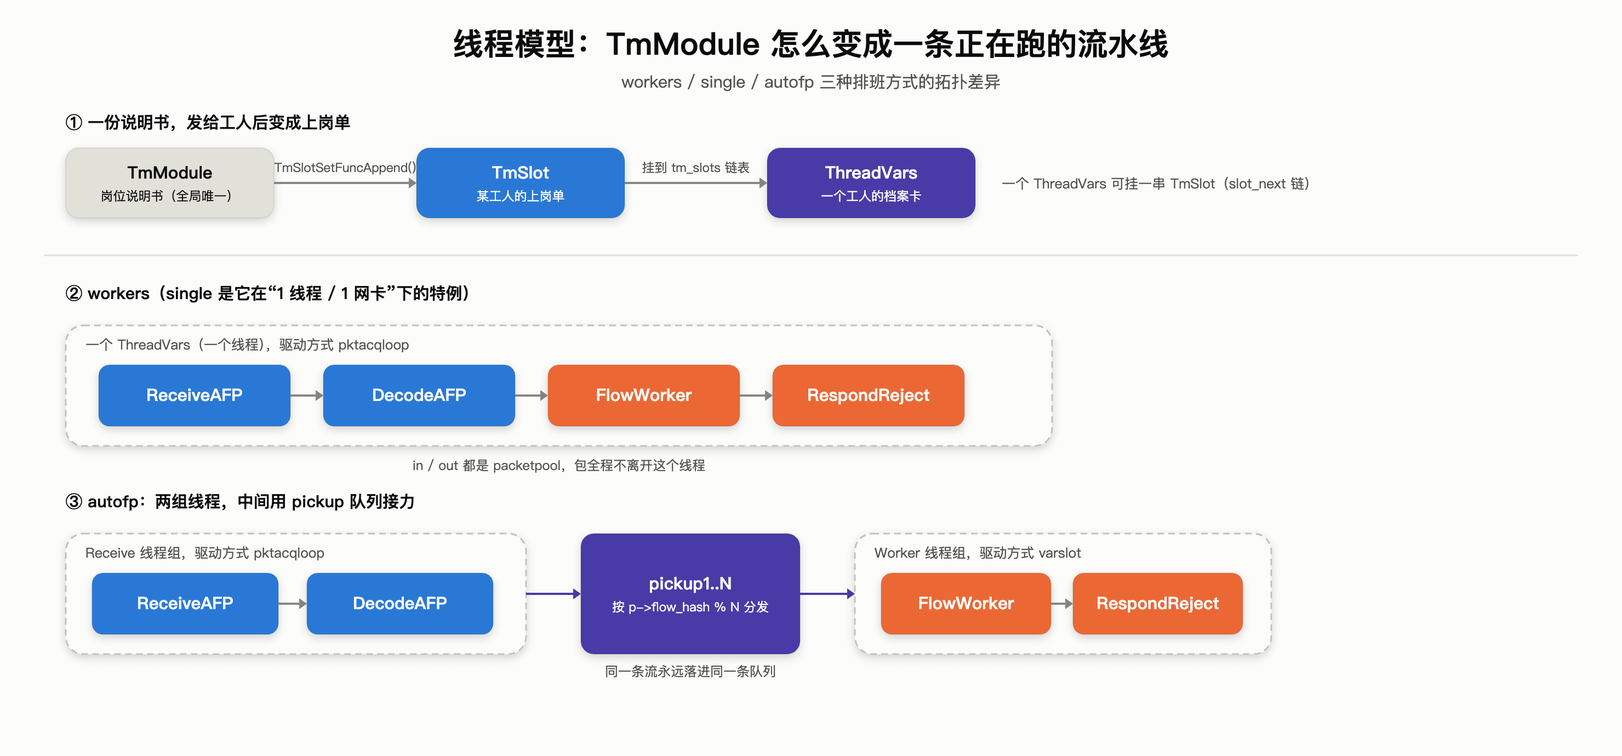
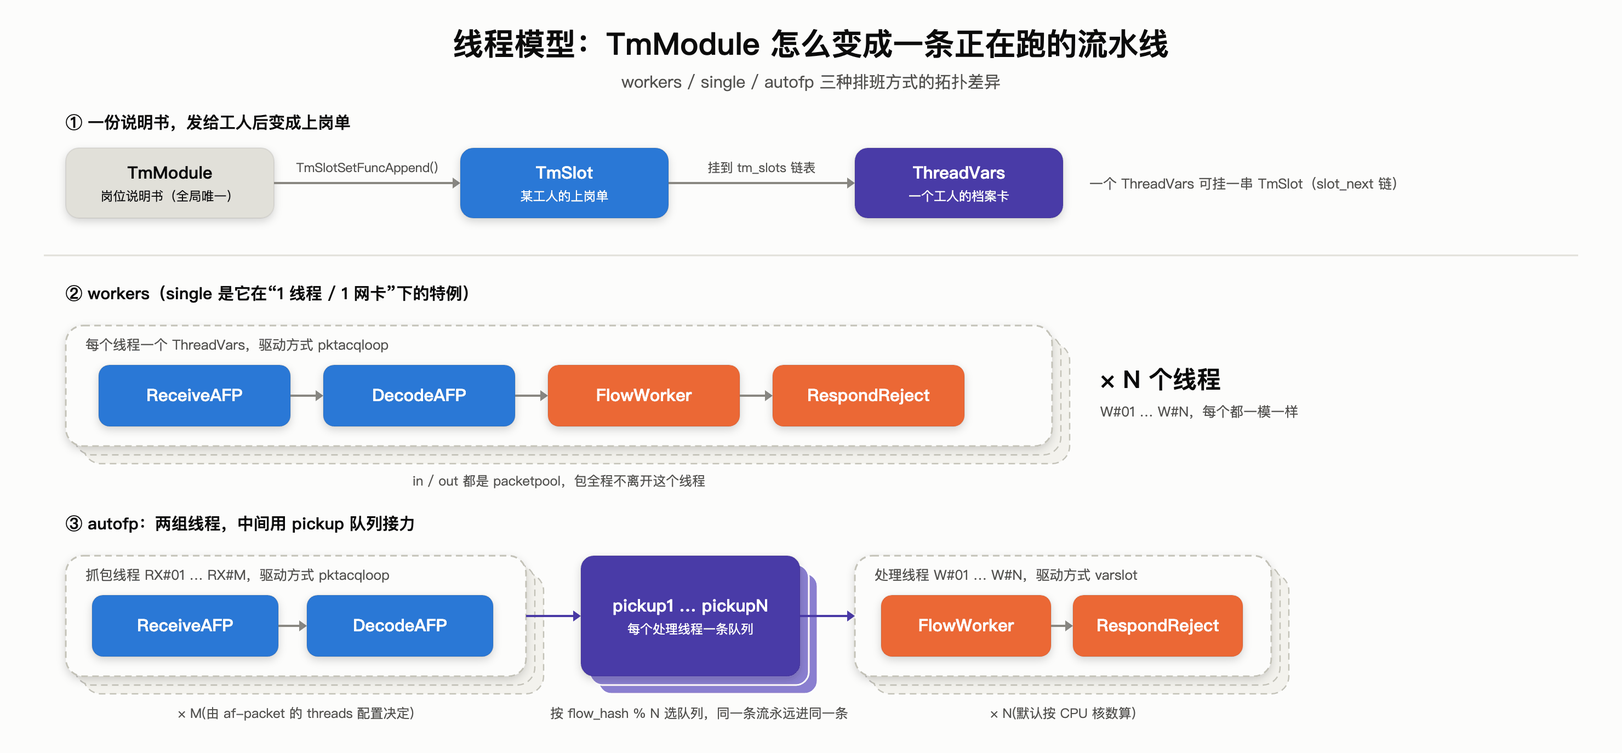
docs: rewrite part 2 against 8.0.7 thread internals and clarify thread-model diagram

diff --git a/docs/source-reading/scripts/gen_threadmodel.py b/docs/source-reading/scripts/gen_threadmodel.py
@@ -2,7 +2,7 @@
 import os
 OUT_DIR = os.path.join(os.path.dirname(os.path.abspath(__file__)), '..', 'images')
 
-W, H = 1480, 690
+W = 1480
 
 BLUE = "#2a78d6"       # receive/decode side
 BLUE_D = "#184f95"
@@ -14,9 +14,9 @@ INK = "#0b0b0b"
 SUB = "#52514e"
 
 parts = []
-parts.append(f'<svg xmlns="http://www.w3.org/2000/svg" viewBox="0 0 {W} {H}" font-family="-apple-system, \'Segoe UI\', \'PingFang SC\', \'Microsoft YaHei\', sans-serif">')
+parts.append(None)  # svg 头，等算出 H 再填
 parts.append('<filter id="softshadow" x="-30%" y="-30%" width="160%" height="160%"><feDropShadow dx="0" dy="3" stdDeviation="4" flood-color="#0b0b0b" flood-opacity="0.16"/></filter>')
-parts.append(f'<rect x="0" y="0" width="{W}" height="{H}" fill="#fcfcfb"/>')
+parts.append(None)  # 背景，等算出 H 再填
 
 parts.append(f'<text x="{W/2}" y="50" text-anchor="middle" font-size="28" font-weight="700" fill="{INK}">线程模型：TmModule 怎么变成一条正在跑的流水线</text>')
 parts.append(f'<text x="{W/2}" y="80" text-anchor="middle" font-size="15" fill="{SUB}">workers / single / autofp 三种排班方式的拓扑差异</text>')
@@ -30,6 +30,13 @@ def box(x, y, w, h, fill, title, sub, tcolor=INK, radius=12, stroke=None, dashed
         s += f'<text x="{x+w/2}" y="{y+h/2+16}" text-anchor="middle" font-size="11.5" fill="{tcolor}">{sub}</text>'
     else:
         s += f'<text x="{x+w/2}" y="{y+h/2+5}" text-anchor="middle" font-size="15.5" font-weight="700" fill="{tcolor}">{title}</text>'
+    return s
+
+def stack(x, y, w, h, n=2, d=8, radius=16):
+    """在框后面画几层错位的虚线框，表示"同样的东西有好几份"。"""
+    s = ''
+    for i in range(n, 0, -1):
+        s += f'<rect x="{x+d*i}" y="{y+d*i}" width="{w}" height="{h}" rx="{radius}" fill="#f3f2ed" stroke="#c3c2b7" stroke-width="1.2" stroke-dasharray="6,4"/>'
     return s
 
 def label(x, y, text, size=13, color=SUB, anchor="start", weight="400"):
@@ -52,11 +59,11 @@ row_y = ay + 20
 bw, bh = 190, 64
 x1 = 60
 parts.append(box(x1, row_y, bw, bh, GRAY, "TmModule", "岗位说明书（全局唯一）", INK))
-x2 = x1 + bw + 130
+x2 = x1 + bw + 170
 parts.append(harrow(x1+bw, row_y+bh/2, x2))
 parts.append(label((x1+bw+x2)/2, row_y+bh/2-10, "TmSlotSetFuncAppend()", 11.5, SUB, "middle"))
 parts.append(box(x2, row_y, bw, bh, BLUE, "TmSlot", "某工人的上岗单", "#ffffff"))
-x3 = x2 + bw + 130
+x3 = x2 + bw + 170
 parts.append(harrow(x2+bw, row_y+bh/2, x3))
 parts.append(label((x2+bw+x3)/2, row_y+bh/2-10, "挂到 tm_slots 链表", 11.5, SUB, "middle"))
 parts.append(box(x3, row_y, bw, bh, VIOLET, "ThreadVars", "一个工人的档案卡", "#ffffff"))
@@ -72,8 +79,11 @@ parts.append(label(60, by, "② workers（single 是它在“1 线程 / 1 网卡
 lane_y = by + 24
 thread_w, thread_h = 900, 110
 tx = 60
+parts.append(stack(tx, lane_y, thread_w, thread_h))
 parts.append(box(tx, lane_y, thread_w, thread_h, "#fcfcfb", "", "", stroke="#c3c2b7", dashed=True, radius=16))
-parts.append(label(tx+18, lane_y+22, "一个 ThreadVars（一个线程），驱动方式 pktacqloop", 12.5, SUB))
+parts.append(label(tx+18, lane_y+22, "每个线程一个 ThreadVars，驱动方式 pktacqloop", 12.5, SUB))
+parts.append(label(tx+thread_w+44, lane_y+thread_h/2+2, "× N 个线程", 22, INK, weight="700"))
+parts.append(label(tx+thread_w+44, lane_y+thread_h/2+28, "W#01 … W#N，每个都一模一样", 12.5, SUB))
 
 slot_w, slot_h = 175, 56
 slot_y = lane_y + 36
@@ -85,17 +95,19 @@ for i, (name, color) in enumerate(slots):
         parts.append(harrow(sx+slot_w, slot_y+slot_h/2, sx+slot_w+30))
     sx += slot_w + 30
 
-parts.append(label(tx+thread_w/2, lane_y+thread_h+22, "in / out 都是 packetpool，包全程不离开这个线程", 12, SUB, "middle"))
+parts.append(label(tx+thread_w/2, lane_y+thread_h+36, "in / out 都是 packetpool，包全程不离开这个线程", 12, SUB, "middle"))
 
 # ---- Section C: autofp lane ----
-cy = lane_y + thread_h + 56
+cy = lane_y + thread_h + 76
 parts.append(label(60, cy, "③ autofp：两组线程，中间用 pickup 队列接力", 15, INK, weight="700"))
 
 lane2_y = cy + 24
 group_w, group_h = 420, 110
 gx1 = 60
+parts.append(stack(gx1, lane2_y, group_w, group_h))
 parts.append(box(gx1, lane2_y, group_w, group_h, "#fcfcfb", "", "", stroke="#c3c2b7", dashed=True, radius=16))
-parts.append(label(gx1+18, lane2_y+22, "Receive 线程组，驱动方式 pktacqloop", 12.5, SUB))
+parts.append(label(gx1+18, lane2_y+22, "抓包线程 RX#01 … RX#M，驱动方式 pktacqloop", 12.5, SUB))
+parts.append(label(gx1+group_w/2, lane2_y+group_h+38, "× M(由 af-packet 的 threads 配置决定)", 12, SUB, "middle"))
 s2y = lane2_y + 36
 s2x = gx1 + 24
 for i, (name, color) in enumerate([("ReceiveAFP", BLUE), ("DecodeAFP", BLUE)]):
@@ -108,14 +120,18 @@ for i, (name, color) in enumerate([("ReceiveAFP", BLUE), ("DecodeAFP", BLUE)]):
 qx = gx1 + group_w + 50
 qw, qh = 200, 110
 parts.append(harrow(gx1+group_w, lane2_y+group_h/2, qx, VIOLET))
-parts.append(box(qx, lane2_y, qw, qh, VIOLET, "pickup1..N", "按 p->flow_hash % N 分发", "#ffffff"))
-parts.append(label(qx+qw/2, lane2_y+qh+20, "同一条流永远落进同一条队列", 12, SUB, "middle"))
+for i in (2, 1):
+    parts.append(f'<rect x="{qx+8*i}" y="{lane2_y+8*i}" width="{qw}" height="{qh}" rx="12" fill="#8a7fd0" stroke="#ffffff" stroke-width="1.5"/>')
+parts.append(box(qx, lane2_y, qw, qh, VIOLET, "pickup1 … pickupN", "每个处理线程一条队列", "#ffffff"))
+parts.append(label(qx+qw/2+8, lane2_y+qh+38, "按 flow_hash % N 选队列，同一条流永远进同一条", 12, SUB, "middle"))
 
 # second group
 gx2 = qx + qw + 50
 parts.append(harrow(qx+qw, lane2_y+group_h/2, gx2, VIOLET))
+parts.append(stack(gx2, lane2_y, group_w-40, group_h))
 parts.append(box(gx2, lane2_y, group_w-40, group_h, "#fcfcfb", "", "", stroke="#c3c2b7", dashed=True, radius=16))
-parts.append(label(gx2+18, lane2_y+22, "Worker 线程组，驱动方式 varslot", 12.5, SUB))
+parts.append(label(gx2+18, lane2_y+22, "处理线程 W#01 … W#N，驱动方式 varslot", 12.5, SUB))
+parts.append(label(gx2+(group_w-40)/2, lane2_y+group_h+38, "× N(默认按 CPU 核数算)", 12, SUB, "middle"))
 s3y = lane2_y + 36
 s3x = gx2 + 24
 for i, (name, color) in enumerate([("FlowWorker", ORANGE), ("RespondReject", ORANGE)]):
@@ -124,6 +140,9 @@ for i, (name, color) in enumerate([("FlowWorker", ORANGE), ("RespondReject", ORA
         parts.append(harrow(s3x+155, s3y+slot_h/2, s3x+155+20))
     s3x += 155 + 20
 
+H = lane2_y + group_h + 70
+parts[0] = f'<svg xmlns="http://www.w3.org/2000/svg" viewBox="0 0 {W} {H}" font-family="-apple-system, \'Segoe UI\', \'PingFang SC\', \'Microsoft YaHei\', sans-serif">'
+parts[2] = f'<rect x="0" y="0" width="{W}" height="{H}" fill="#fcfcfb"/>'
 parts.append('</svg>')
 
 with open(os.path.join(OUT_DIR, 'suricata-thread-model.svg'), 'w', encoding='utf-8') as f:

diff --git a/docs/source-reading/02-线程模型与TmModule.md b/docs/source-reading/02-线程模型与TmModule.md
@@ -1,19 +1,16 @@
 # Suricata 源码阅读(二)：一条流水线是怎么跑起来的——线程模型与 TmModule
 
-> 这是系列第 2 篇。上一篇跟着 `main()` 把 Suricata 送到了 `RunModeDispatch()` 门口——知道这一刻车间会正式开工，但没细看工位是怎么焊到工人身上的。这一篇就停在这个点往下拆：`TmModule` 怎么变成一个线程真正在跑的东西？一个包在同一个线程里怎么连续闯过好几道工位？single、autofp、workers 这三种排班方式，差别到底落在哪一行代码上？
+> 这是系列第 2 篇。上一篇跟着 `main()` 走完了启动的五个阶段：`RunModeDispatch()` 把线程一个个创建出来，`SuricataPostInit()` 等它们就位后统一放行。但线程里面具体装了什么、放行之后怎么干活，上一篇没有展开。这一篇就拆开一个线程看：`TmModule` 怎么变成线程里真正在跑的代码？一个包在同一个线程里怎么连续闯过好几道工位？single、autofp、workers 这三种排班方式，差别到底落在哪一行代码上？
 
-## 1. 两个新角色：工人档案和上岗单
+先看全貌。下面这张图把本篇要讲的东西都画在了一起，读完再回来看会更清楚：
 
-上一篇留了两个概念没拆开：`TmModule` 是工位的抽象，`RunMode` 决定工位怎么分给工人。真正把两者接起来跑起来的，还差两个没登场的角色：
+![线程模型：TmModule 怎么变成一条正在跑的流水线](images/suricata-thread-model.svg)
 
-- **`ThreadVars`**(`src/threadvars.h:59`)：一个工人的档案卡。线程名字、CPU 亲和性、运行标志位、正在干哪些工位……全记在这上面。它在整个线程存活期间只有一份，是 `pthread_create()` 真正传进去的那个东西。
-- **`TmSlot`**(`src/tm-threads.h:53`)：工位说明书发到某个工人手上后生成的"上岗单"。`TmModule` 本身是全局唯一的一份说明书(存在 `tmm_modules[TMM_SIZE]` 数组里)，但同一份说明书可以抄发给好几个工人;`TmSlot` 就是抄给某一个工人的那一份，带着这个工人自己的运行数据(`slot_data`)。
+## 1. 三个角色：说明书、上岗单、档案卡
 
-关系可以这样理清：**TmModule 是岗位说明书，ThreadVars 是工人档案，TmSlot 是说明书发给某个工人之后生成的上岗单**。一个 `ThreadVars` 可以攥着一串 `TmSlot`(靠 `slot_next` 链起来)，这就是"一个线程连续干好几道工位"的由来。
+要把一组函数变成一条会跑的流水线，Suricata 用了三个结构体。
 
-## 2. TmModule：说明书上写的两种干活方式
-
-回到 `TmModule` 的定义(`src/tm-modules.h:47`)，挑关键字段看：
+**`TmModule`：岗位说明书。** 定义在 `src/tm-modules.h:47`，挑关键字段看：
 
 ```c
 typedef struct TmModule_ {
@@ -21,48 +18,109 @@ typedef struct TmModule_ {
     TmEcode (*ThreadInit)(ThreadVars *, const void *, void **);
     TmEcode (*Func)(ThreadVars *, Packet *, void *);
     TmEcode (*PktAcqLoop)(ThreadVars *, void *, void *);
+    TmEcode (*Management)(ThreadVars *, void *);
     TmEcode (*ThreadDeinit)(ThreadVars *, void *);
     ...
 } TmModule;
 ```
 
-`Func` 和 `PktAcqLoop` 是两种性质不同的"干活方式"：
+`ThreadInit`/`ThreadDeinit` 负责上岗和下岗，中间三个函数指针是三种不同的干活方式，一个模块通常只实现其中一种：
 
-- 多数工位是"来一个包处理一个包"的 `Func`，比如 `Decode`、`StreamTcp`、`Detect`——包递过来才干活，干完就把控制权交回去。
-- 只有站在流水线最前端、负责从网卡或 pcap 里"生产"包的工位(比如 `ReceiveAFP`)才用 `PktAcqLoop`——它自己就是一个不停抓包的循环，不是被动等包递过来，而是主动去外面"造"包。
+- **`Func`：来一个包处理一个包。** 包递过来才干活，干完就把控制权交回去。`DecodeAFP`、`FlowWorker`、`RespondReject` 都是这一类。
+- **`PktAcqLoop`：自己去抓包。** 只有站在流水线最前端的工位才用，比如 `ReceiveAFP`。它本身就是一个不停抓包的循环，不等别人递包，而是主动去网卡或 pcap 文件里"生产"包。
+- **`Management`：不碰包的后台活。** `FlowManager`、`FlowRecycler` 这类管理线程用的就是它。
 
-这个区分不是细节，它决定了挂着这个工位的线程要用哪种方式驱动起来，第 5 节会看到具体分支。
+所有模块在启动时由 `RegisterAllModules()` 注册进一个全局数组 `tmm_modules[TMM_SIZE]`，每个模块全局只有一份。
 
-## 3. 上岗：说明书怎么发给工人，还串成一条线
+**`TmSlot`：上岗单。** 定义在 `src/tm-threads.h:53`。同一份说明书可以发给好几个工人，比如 8 个 worker 线程都要干 `FlowWorker` 这道工位。`TmSlot` 就是发给某一个工人的那一份：它记下这道工位的函数指针，还带着这个工人自己的运行数据(`slot_data`，由 `ThreadInit` 初始化)。多个 `TmSlot` 用 `slot_next` 串成链表。
 
-工位说明书是死的，得有人把它发给具体的工人，还要把好几个工位串成一条线。这活是 `TmSlotSetFuncAppend()`(`src/tm-threads.c:658`)干的：
+**`ThreadVars`：工人档案卡。** 定义在 `src/threadvars.h:59`，一个线程一份，是 `pthread_create()` 真正传进去的那个参数。上面记着线程名字、CPU 亲和性、运行标志位，还有三样决定这个线程怎么干活的东西：
+
+- `tm_slots`：这个工人身上串着的那条上岗单链表。
+- `tm_func`：线程的主函数，也就是"驱动方式"。
+- `tmqh_in` / `tmqh_out`：从哪里取包、处理完把包交到哪里。
+
+一句话理清三者的关系：**TmModule 是岗位说明书，TmSlot 是发到某个工人手上的上岗单，ThreadVars 是工人档案卡，一个工人身上可以串一串上岗单**。
+
+## 2. 组装：把上岗单串到工人身上
+
+把说明书发给工人、再串成一条线，靠的是 `TmSlotSetFuncAppend()`(`src/tm-threads.c:658`)：
 
 ```c
 void TmSlotSetFuncAppend(ThreadVars *tv, TmModule *tm, const void *data)
 {
     TmSlot *slot = SCCalloc(1, sizeof(TmSlot));
     ...
+    slot->SlotThreadInit = tm->ThreadInit;
+    slot->slot_initdata = data;
     if (tm->Func) {
         slot->SlotFunc = tm->Func;
     } else if (tm->PktAcqLoop) {
         slot->PktAcqLoop = tm->PktAcqLoop;
+    } else if (tm->Management) {
+        slot->Management = tm->Management;
     }
     ...
     if (tv->tm_slots == NULL) {
         tv->tm_slots = slot;
     } else {
-        // 找到链表末尾,把新 slot 接上去
+        // 找到链表末尾，把新 slot 接上去
         ...
         b->slot_next = slot;
     }
 }
 ```
 
-逻辑很直白：每调用一次，就把一个 `TmModule` 拷贝成一份 `TmSlot`，挂到这个 `ThreadVars` 的 `tm_slots` 链表尾部。谁调用它、调用几次、传哪些 `TmModule`，就决定了这个线程身上串了哪几道工位、按什么顺序串。第 5 节看 RunMode 代码时会看到，"workers"模式其实就是对着一个新建的 `ThreadVars` 连续调用四次 `TmSlotSetFuncAppend`(`ReceiveAFP`、`DecodeAFP`、`FlowWorker`、`RespondReject`)。
+每调用一次，就新建一个 `TmSlot`，把 `TmModule` 里的函数指针抄过来，挂到这个 `ThreadVars` 的 `tm_slots` 链表尾部。谁调用它、调用几次、传哪些模块，就决定了这个线程身上串了哪几道工位、按什么顺序串。
 
-## 4. 一个包，在一个线程里怎么连续闯过好几道工位
+## 3. 一个线程的一生
 
-`tm_slots` 链表建好之后，包是怎么顺着它走的？答案在 `TmThreadsSlotVarRun()`(`src/tm-threads.c:133`)：
+工位串好了，线程还要有人驱动。一个处理包的线程，是由 `TmThreadCreatePacketHandler()`(`src/tm-threads.c:1062`)创建的，它的参数值得细看：
+
+```c
+ThreadVars *TmThreadCreatePacketHandler(const char *name,
+        const char *inq_name, const char *inqh_name,    // 从哪条队列取包，用什么方式取
+        const char *outq_name, const char *outqh_name,  // 包交到哪条队列，用什么方式交
+        const char *slots);                             // 驱动方式
+```
+
+后面会看到，**三种排班方式的差别，几乎全部体现在这五个字符串参数上**。
+
+最后一个参数 `slots` 决定线程的主函数。`TmThreadSetSlots()`(`src/tm-threads.c:612`)按名字挑选：
+
+| `slots` | 线程主函数 `tm_func` | 用在哪 |
+|---|---|---|
+| `"pktacqloop"` | `TmThreadsSlotPktAcqLoop()` | 链头是抓包模块的线程 |
+| `"varslot"` | `TmThreadsSlotVar()` | 从队列里取包的线程 |
+| `"management"` | `TmThreadsManagement()` | 管理线程 |
+
+`TmThreadSpawn()`(`src/tm-threads.c:1718`)最终调用 `pthread_create(&tv->t, &attr, tv->tm_func, (void *)tv)`(第 1739 行)，线程就从 `tm_func` 开始跑。处理包的两种主函数(`pktacqloop` 和 `varslot`)，一上来做的事都差不多：
+
+1. 挨个调用链上每个 `TmSlot` 的 `SlotThreadInit`，初始化各工位的线程私有数据。
+2. 打上 `THV_INIT_DONE` 标志，告诉主线程"我准备好了"。
+3. 调用 `TmThreadsWaitForUnpause()` 原地等待，直到主线程清掉 `THV_PAUSE`。这就是上一篇"放行"阶段在线程这一侧的样子。
+4. 进入主循环，开始干活。
+
+## 4. 一个包怎么连续闯过好几道工位
+
+两种处理包的主函数，主循环不一样。
+
+**`"pktacqloop"`：线程自己去抓包。** `TmThreadsSlotPktAcqLoop()`(`src/tm-threads.c:310`)的主循环很简单，就是调用链头那个 `TmSlot` 的 `PktAcqLoop`，比如 `ReceiveAFPLoop()`。抓包循环在自己手里，所以抓包模块会把"链上剩下的部分"记下来：`ReceiveAFP` 初始化时保存了 `ptv->slot = s->slot_next`(`src/source-af-packet.c:1313`)。每抓到一个包，就调用 `TmThreadsSlotProcessPkt()`(`src/tm-threads.h:195`)把包交给后面的工位：
+
+```c
+static inline TmEcode TmThreadsSlotProcessPkt(ThreadVars *tv, TmSlot *s, Packet *p)
+{
+    ...
+    TmEcode r = TmThreadsSlotVarRun(tv, p, s);   // 依次走完剩下的工位
+    ...
+    tv->tmqh_out(tv, p);                          // 处理完，把包交出去
+    ...
+}
+```
+
+**`"varslot"`：线程从队列里取包。** `TmThreadsSlotVar()`(`src/tm-threads.c:410`)的主循环是：`tv->tmqh_in(tv)` 从输入队列取一个包，调用 `TmThreadsSlotVarRun()` 走完整条链，再 `tv->tmqh_out(tv, p)` 交出去。
+
+两条路最后都汇到 `TmThreadsSlotVarRun()`(`src/tm-threads.c:133`)：
 
 ```c
 TmEcode TmThreadsSlotVarRun(ThreadVars *tv, Packet *p, TmSlot *slot)
@@ -73,45 +131,91 @@ TmEcode TmThreadsSlotVarRun(ThreadVars *tv, Packet *p, TmSlot *slot)
             ...
             return TM_ECODE_FAILED;
         }
+        ...
     }
     return TM_ECODE_OK;
 }
 ```
 
-就是一个 `for` 循环，顺着 `slot_next` 挨个调用 `SlotFunc`。没有排队，没有跨线程切换——同一个包，在同一个线程的调用栈上，被同一条函数链依次处理完。这是理解 workers 模式为什么快的关键：只要一个线程包揽了从解码到检测的全部工位，包就不需要在线程之间搬来搬去，也就没有队列锁、没有唤醒开销。
+就是一个 `for` 循环，顺着 `slot_next` 挨个调用 `SlotFunc`。没有排队，也没有线程切换：同一个包，在同一个线程的调用栈上，被一条函数链依次处理完。(省略的部分里还有一个细节：解码时如果拆出了隧道里的内层包，会在这里把它们也送进后面的工位。这是第 4 篇的话题。)
 
-## 5. 三种排班方式，差别到底在哪一行
+至于包"交出去"交到了哪里，取决于 `tmqh_out`，也就是创建线程时指定的队列处理器(`Tmqh`，定义见 `src/tm-queuehandlers.h:36`)：
 
-`00` 篇里说过，同样一条"捕获→解码→检测→输出"的逻辑链，可以让一个工人从头干到尾(workers)，也可以分两组工人接力(autofp)。落到源码里，两者的差别都很具体，集中在 `src/util-runmodes.c`：
+- `"packetpool"`：包处理完了，还回本线程的包池，等着下次复用。
+- `"flow"`：按流的哈希值挑一条队列，把包塞进去，交给另一个线程接着处理。
 
-**workers**：`RunModeSetLiveCaptureWorkersForDevice()`(`util-runmodes.c:245`)给*每一个*线程建一个 `ThreadVars`，连续调用四次 `TmSlotSetFuncAppend`：`ReceiveAFP → DecodeAFP → FlowWorker → RespondReject`，输入输出队列都是 `"packetpool"`——没有真正的队列，包从抓包到出结果全程待在同一个线程里，驱动方式是 `"pktacqloop"`(即 `TmThreadsSlotPktAcqLoop`, `tm-threads.c:310`)：线程自己在 `while` 里反复调用链头 `ReceiveAFP` 的 `PktAcqLoop`，抓到一个包就顺着 `slot_next` 交给后面的工位处理完。
+## 5. 三种排班方式，差别在哪一行
 
-**autofp**：`RunModeSetLiveCaptureAutoFp()`(`util-runmodes.c:85`)造了*两组*线程。第一组只干 `Receive + Decode` 两道工位，干完往几条叫 `pickup1`、`pickup2`……的队列(`Tmq`，定义见 `src/tm-queues.c`)里扔;第二组线程专职 `FlowWorker + RespondReject`，各自守着一条 `pickup` 队列，驱动方式是 `"varslot"`(即 `TmThreadsSlotVar`, `tm-threads.c:410`)：线程在 `while` 里反复调用 `tv->tmqh_in(tv)` 从自己的队列里取包，取到了才走 `slot_next` 链。两组线程之间靠队列传包，这就是上一篇说的"传送带"。
+有了上面这些，三种排班方式就可以直接对着 `TmThreadCreatePacketHandler()` 的参数看了。代码都在 `src/util-runmodes.c`。
 
-至于"single"模式，翻开 `RunModeSetLiveCaptureSingle()`(`util-runmodes.c:359`)会发现一个不算意外的真相：它调用的还是 `RunModeSetLiveCaptureWorkersForDevice()`，只是把线程数强行钉死成 1、并且只允许配一个网卡。**single 不是第三种拓扑，它就是 workers 模式在"只准一个工人、只准一个入口"限制下的特例**。
+**workers。** `RunModeSetLiveCaptureWorkersForDevice()`(`util-runmodes.c:245`)按配置的线程数循环，每一轮创建一个线程：
+
+```c
+ThreadVars *tv = TmThreadCreatePacketHandler(tname,
+        "packetpool", "packetpool",
+        "packetpool", "packetpool",
+        "pktacqloop");
+```
+
+然后连续调用四次 `TmSlotSetFuncAppend()`，串上 `ReceiveAFP → DecodeAFP → FlowWorker → RespondReject`。输入输出都是 `"packetpool"`，也就是说根本没有队列：包从抓进来到处理完，全程待在同一个线程里，处理完直接还回包池。
+
+**autofp。** `RunModeSetLiveCaptureAutoFp()`(`util-runmodes.c:85`)创建两组线程：
+
+| | 抓包线程 | 处理线程 |
+|---|---|---|
+| 输入 | `"packetpool"` | 自己那条 `"pickupN"` 队列，处理器 `"flow"` |
+| 输出 | 所有 `"pickup1,pickup2,..."` 队列，处理器 `"flow"` | `"packetpool"` |
+| 驱动方式 | `"pktacqloop"` | `"varslot"` |
+| 工位 | `ReceiveAFP → DecodeAFP` | `FlowWorker → RespondReject` |
+
+抓包线程只做抓包和解码，然后按流把包分发到各条 `pickup` 队列；处理线程各守一条队列，取到包再做流跟踪、重组、检测和输出。处理线程的数量由 `TmThreadsGetWorkerThreadMax()` 决定，线程组名是 `"Detect"`。两组线程之间靠队列传包，这就是"传送带"。
+
+**single。** 翻开 `RunModeSetLiveCaptureSingle()`(`util-runmodes.c:359`)会发现，它调用的还是 `RunModeSetLiveCaptureWorkersForDevice()`，只是最后一个参数 `single_mode` 传了 1：线程数被钉死成 1，并且配了多个网卡就直接报错退出。**single 不是第三种拓扑，它就是只有一个工人、一个入口的 workers。**
+
+所以回到开头的问题：三种排班方式的差别，落在 `TmThreadCreatePacketHandler()` 的那几个队列参数、驱动方式参数，以及每个线程串了哪几个 `TmSlot` 上。
 
 ## 6. autofp 的传送带凭什么不把同一条流拆乱
 
-两组线程之间用队列传包没错，但如果随便传，同一条 TCP 流的包散落到不同的检测线程里，`Flow`、`Stream` 这些依赖连续状态的模块就全乱了。这活交给了队列的"处理器"(`Tmqh`，定义见 `src/tm-queuehandlers.h:36`)：autofp 里 Receive 线程往外扔包时用的是 `"flow"` 处理器，默认调度函数是 `TmqhOutputFlowHash()`(`src/tmqh-flow.c:220`)：
+两组线程之间用队列传包没错，但如果随便分发，同一条 TCP 流的包散落到不同的处理线程里，`Flow`、`Stream` 这些依赖连续状态的模块就全乱了。
+
+解决办法藏在抓包线程的输出处理器 `"flow"` 里。默认的分发函数是 `TmqhOutputFlowHash()`(`src/tmqh-flow.c:220`)：
 
 ```c
 void TmqhOutputFlowHash(ThreadVars *tv, Packet *p)
 {
     uint32_t qid;
+    TmqhFlowCtx *ctx = (TmqhFlowCtx *)tv->outctx;
+
     if (p->flags & PKT_WANTS_FLOW) {
         uint32_t hash = p->flow_hash;
         qid = hash % ctx->size;
     } else {
-        qid = ctx->last++; // 没有 flow 信息的包,退化成轮询
+        qid = ctx->last++;             // 没有流信息的包，轮流分发
+        if (ctx->last == ctx->size)
+            ctx->last = 0;
     }
-    ...
+
+    PacketQueue *q = ctx->queues[qid].q;
+    SCMutexLock(&q->mutex_q);
+    PacketEnqueue(q, p);
+    SCCondSignal(&q->cond_q);          // 唤醒等在这条队列上的处理线程
+    SCMutexUnlock(&q->mutex_q);
 }
 ```
 
-逻辑就一句话：用 `p->flow_hash` 对队列数取模决定去哪条 `pickup` 队列。同一条流的哈希值不会变，所以它产生的所有包永远落进同一条队列，也就永远由同一个 worker 线程处理——这才保证了 `Flow`、`Stream` 这些跨包状态不会被两个线程同时读写。
+核心就一句：用 `p->flow_hash` 对队列数取模，决定进哪条 `pickup` 队列。`flow_hash` 是解码时由 `FlowSetupPacket()` 按五元组算好的，同一条流的哈希值不会变，所以它的所有包永远落进同一条队列，也就永远由同一个处理线程处理。`Flow`、`Stream` 这些跨包的状态，就不会被两个线程同时读写。
 
-## 7. 一张图收尾
+分发策略可以通过配置项 `autofp-scheduler` 换成 `ippair`(按 IP 对)或 `ftp-hash`，不配置时默认就是上面这个 `hash`。
 
-![线程模型：TmModule 怎么变成一条正在跑的流水线](images/suricata-thread-model.svg)
+顺便也能看出 workers 为什么通常更快：autofp 的每个包都要经过一次加锁入队、一次唤醒、一次出队，而 workers 里这些开销都不存在。
 
-到这里，一条流水线是怎么被组装、怎么被驱动起来的，主线就走完了。下一篇往前挪一站，看流水线上第一道真正的工位：包是怎么从网卡或 pcap 文件里被抓出来的，`AF_PACKET`、`PCAP`、`NFQ` 抓到的原始字节，又是怎么变成 Suricata 内部那个远比想象中复杂的 `Packet` 结构体的。
+## 小结
+
+把这一篇的内容压成几句话：
+
+- `TmModule` 是全局唯一的岗位说明书，有 `Func`、`PktAcqLoop`、`Management` 三种干活方式。
+- `TmSlotSetFuncAppend()` 把模块抄成 `TmSlot`，串到 `ThreadVars` 身上，一个线程就有了自己的工位链。
+- 线程的驱动方式(`pktacqloop` 或 `varslot`)决定包从哪来；`TmThreadsSlotVarRun()` 的一个 `for` 循环让包依次走完工位链；`tmqh_out` 决定包处理完去哪。
+- workers、autofp、single 的差别，就是这几样东西的不同组合；autofp 靠按流哈希分发，保证同一条流始终落在同一个线程上。
+
+下一篇往前挪一站，看流水线上的第一道工位：包是怎么从网卡或 pcap 文件里被抓出来的，`AF_PACKET`、`PCAP`、`NFQ` 抓到的原始字节，又是怎么变成 Suricata 内部那个远比想象中复杂的 `Packet` 结构体的。
